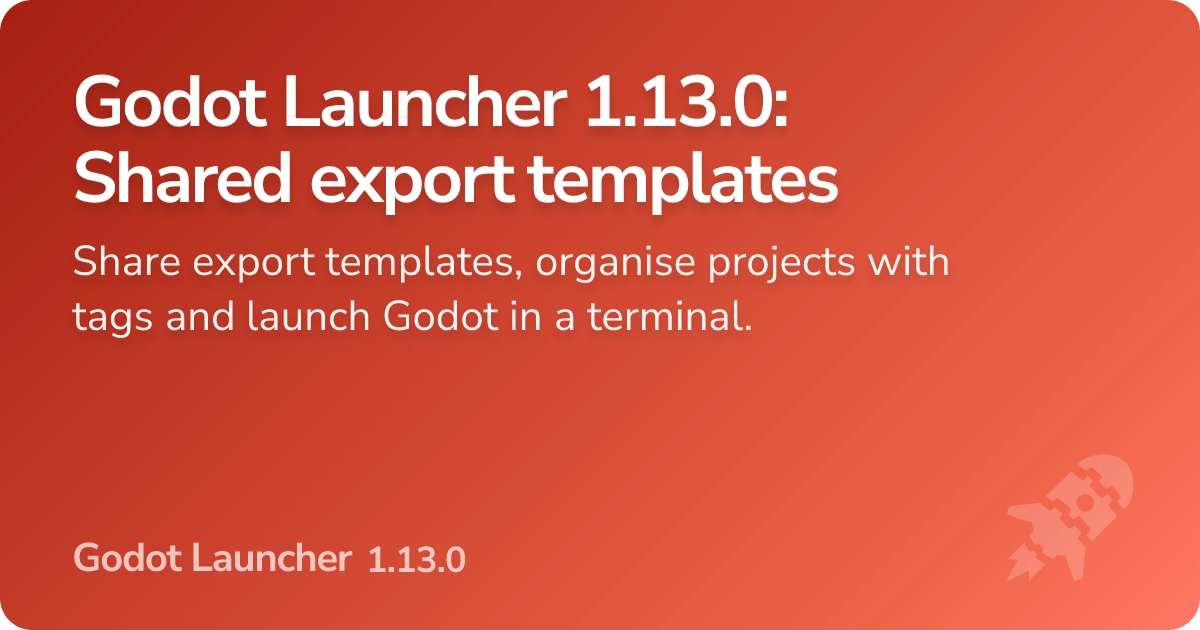
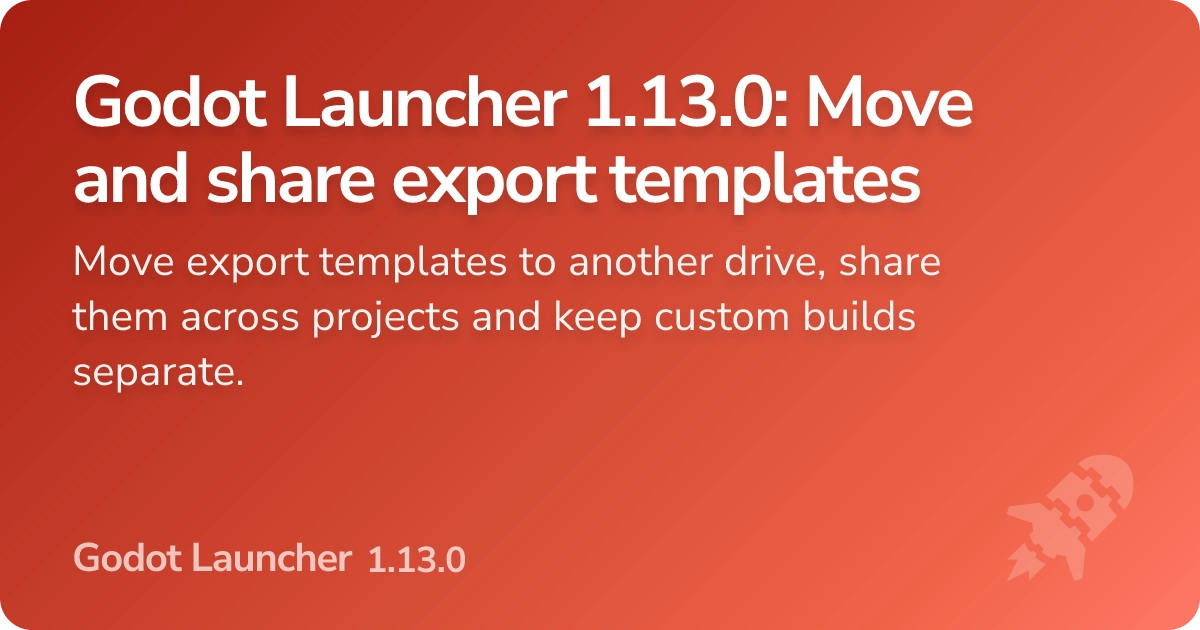
docs: highlight export template storage in 1.13 content

diff --git a/src/data/faqs.tsx b/src/data/faqs.tsx
@@ -147,6 +147,74 @@ export const faqSections: FAQSection[] = [
     ],
   },
   {
+    title: "Export Templates",
+    questions: [
+      {
+        featured: true,
+        featureOrder: 2,
+        question: "Can I move Godot export templates to another drive?",
+        answer:
+          "Yes. Open Settings > Export Templates in Godot Launcher to move Official or Imported storage to another folder or drive. Their locations can be changed separately. Close Godot editors and choose an empty, writable destination folder before moving.",
+        answerHTML: (
+          <p>
+            Yes. Open <strong>Settings &gt; Export Templates</strong> in Godot
+            Launcher to move Official or Imported storage to another folder or
+            drive. Their locations can be changed separately. Close Godot editors
+            and choose an empty, writable destination folder before moving. See{" "}
+            <Link
+              style={{ display: "contents" }}
+              href="https://docs.godotlauncher.org/editors/export-templates/#move-template-storage"
+            >
+              Change the Godot export template location
+            </Link>
+            {" "}for the steps.
+          </p>
+        ),
+      },
+      {
+        question: "Will Godot still find my templates after a storage move?",
+        answer:
+          "Yes. Godot's normal Official template path continues to work after the move, including when you open Godot directly. Open projects through Godot Launcher to use their saved imported-build choices.",
+      },
+      {
+        question: "Can projects share templates without sharing editor settings?",
+        answer:
+          "Yes. Projects using the same Godot version and edition, Standard or .NET, can reuse one Official template collection while keeping their editor preferences separate. Adding or removing shared files affects every project using that collection.",
+      },
+      {
+        question: "Do I need to install every platform's export templates?",
+        answer:
+          "No. Choose the Official files you need and add more later. If individual downloads are unavailable, Godot Launcher offers a full-package download. Imported TPZ builds are managed as complete packages.",
+      },
+      {
+        question: "Can different projects use different custom export templates?",
+        answer:
+          "Yes. Import prepared TPZ packages, give them names and choose a matching build in Project Settings > Export Templates. Choices are saved on this computer for each Godot version and edition. For custom Godot editors, manage templates in Godot.",
+      },
+      {
+        question: "Can I reuse export templates I already have?",
+        answer:
+          "Yes. Godot Launcher uses Official templates in Godot's normal per-user location. For existing project-local files, review whether to keep them as an Imported build, share them, use shared templates or decide later. Share templates and Use shared templates permanently remove local files without a backup. Keep your own copy of originals you may need.",
+        answerHTML: (
+          <p>
+            Yes. Godot Launcher uses Official templates in Godot's normal
+            per-user location. For existing project-local files,{" "}
+            <Link
+              style={{ display: "contents" }}
+              href="https://docs.godotlauncher.org/editors/export-templates/#connect-existing-projects"
+            >
+              review your migration choices
+            </Link>
+            {": "}keep them as an Imported build, share them, use shared templates
+            or decide later. <strong>Share templates</strong> and{" "}
+            <strong>Use shared templates</strong> permanently remove local files
+            without a backup. Keep your own copy of originals you may need.
+          </p>
+        ),
+      },
+    ],
+  },
+  {
     title: "Features & Functionality",
     questions: [
       {

diff --git a/src/pages/faq/index.tsx b/src/pages/faq/index.tsx
@@ -7,7 +7,7 @@ export default function Faqs(): ReactNode {
   return (
     <Layout
       title="FAQs"
-      description="Find answers to frequently asked questions about Godot Launcher, including features, installation, troubleshooting, and more. Learn how this open source tool supports Godot project management."
+      description="Find answers about Godot Launcher: move and share Godot export templates, manage editors and projects, install the app and troubleshoot problems."
     >
       <div className="container padding-top--lg padding-bottom-lg">
         <main>
